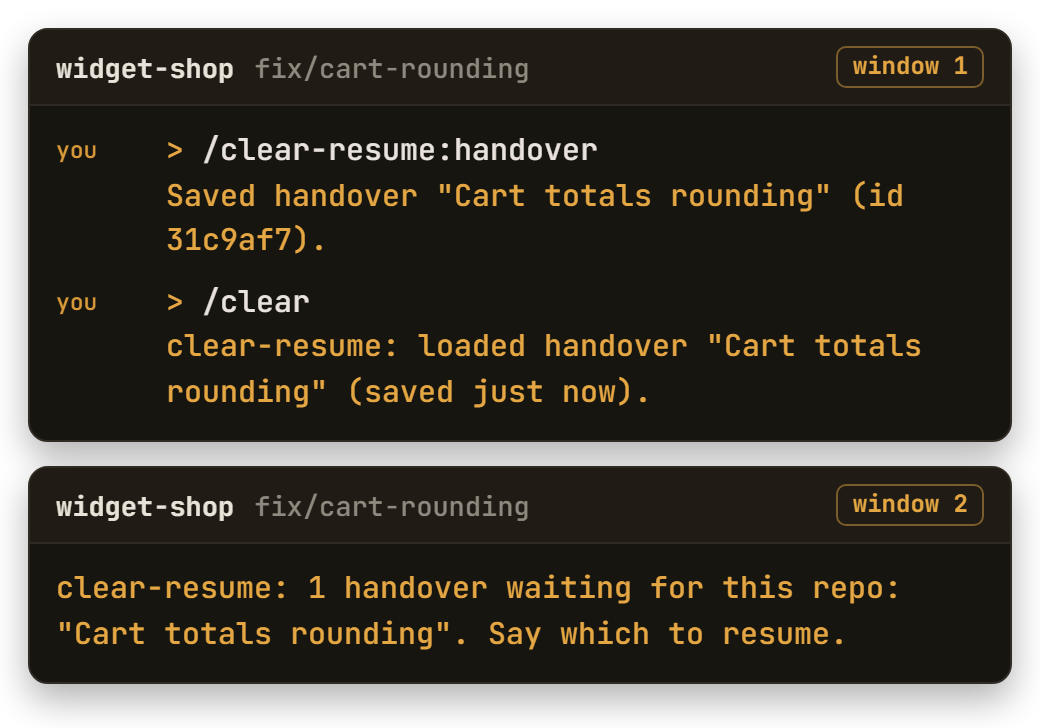
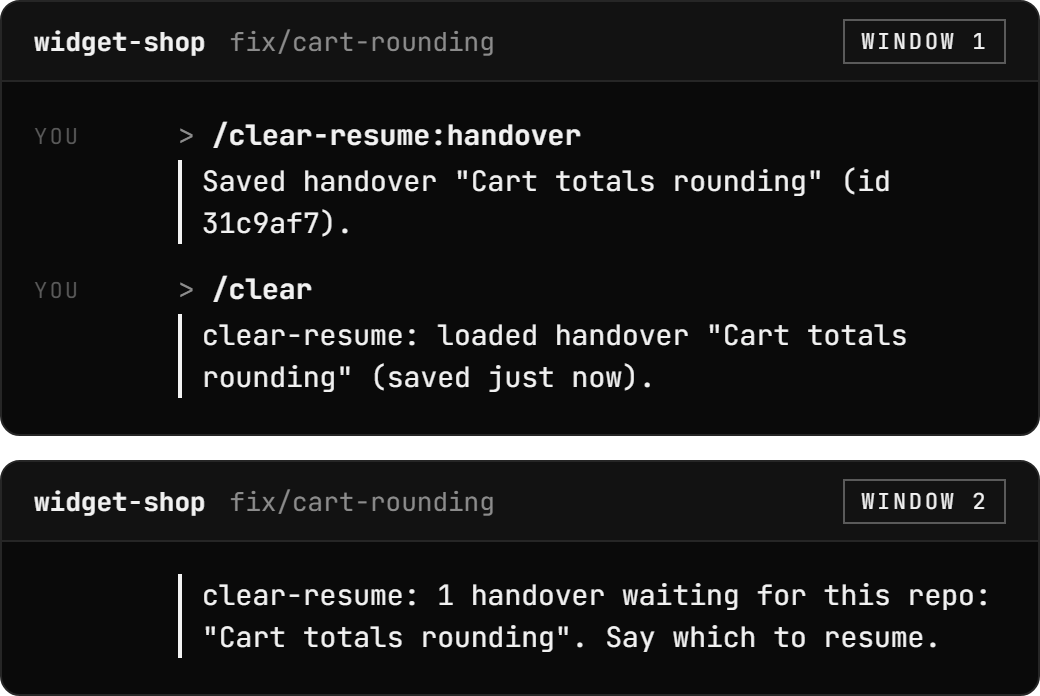
docs(media): mono README cards from a committed HTML source

diff --git a/docs/media/src/cards.html b/docs/media/src/cards.html
@@ -1,0 +1,209 @@
+<!doctype html>
+<!--
+  Source for the README cards in docs/media/. One card shows per #hash
+  (cards.html#banner, #problem, #nudge, #numbers, #copy, #windows).
+  Render all of them with: bash docs/media/src/render.sh
+  Palette and fonts are the site's (site/styles.css), so the README matches
+  https://m4cd4r4.github.io/clear-resume and the relay replay.
+-->
+<html lang="en">
+<head>
+<meta charset="utf-8">
+<title>clear-resume README cards</title>
+<style>
+@font-face { font-family: "JetBrains Mono"; src: url("../../../site/fonts/jetbrains-mono-400.woff2") format("woff2"); font-weight: 400; }
+@font-face { font-family: "JetBrains Mono"; src: url("../../../site/fonts/jetbrains-mono-700.woff2") format("woff2"); font-weight: 700; }
+@font-face { font-family: "Montserrat"; src: url("../../../site/fonts/montserrat-400.woff2") format("woff2"); font-weight: 400; }
+@font-face { font-family: "Montserrat"; src: url("../../../site/fonts/montserrat-600.woff2") format("woff2"); font-weight: 600; }
+@font-face { font-family: "Montserrat"; src: url("../../../site/fonts/montserrat-700.woff2") format("woff2"); font-weight: 700; }
+
+:root {
+  --bg: #0a0a0a;
+  --surface: #121212;
+  --surface-2: #181818;
+  --hairline: #262626;
+  --text: #f2f2f2;
+  --text-2: #8c8c8c;
+  --ghost: #5a5a5a;
+  --mono: "JetBrains Mono", ui-monospace, Consolas, monospace;
+  --sans: "Montserrat", system-ui, sans-serif;
+}
+* { box-sizing: border-box; }
+html, body { margin: 0; background: transparent; }
+body { color: var(--text); font: 400 15px/1.5 var(--mono); font-variant-ligatures: none; -webkit-font-smoothing: antialiased; }
+section { display: none; }
+section:target { display: block; }
+
+/* terminal window */
+.win { background: var(--bg); border: 1px solid var(--hairline); border-radius: 10px; overflow: hidden; }
+.win + .win { margin-top: 12px; }
+.bar { display: flex; align-items: center; gap: 12px; height: 40px; padding: 0 16px; border-bottom: 1px solid var(--hairline); background: var(--surface); font-size: 13px; }
+.bar .repo { font-weight: 700; }
+.bar .branch { color: var(--text-2); }
+.bar .ctx { margin-left: auto; display: flex; align-items: center; gap: 10px; color: var(--text-2); font-size: 11px; letter-spacing: .12em; text-transform: uppercase; }
+.meter { width: 120px; height: 4px; background: var(--hairline); }
+.meter i { display: block; height: 100%; background: var(--text); }
+.tag { margin-left: auto; padding: 2px 8px; border: 1px solid var(--ghost); color: var(--text); font-size: 11px; letter-spacing: .12em; text-transform: uppercase; }
+.body { padding: 16px 16px 18px; }
+.row { display: grid; grid-template-columns: 64px 1fr; column-gap: 8px; }
+.row + .row { margin-top: 2px; }
+.row.gap { margin-top: 12px; }
+.who { color: var(--ghost); font-size: 11px; letter-spacing: .1em; text-transform: uppercase; padding-top: 3px; }
+.p { color: var(--text-2); }
+.cmd { color: var(--text); font-weight: 700; }
+.tool { color: var(--text); }
+.arg { color: var(--text-2); }
+.say { color: var(--text); }
+/* the plugin's own voice: a hairline rule on the left, never a colour */
+.plug { border-left: 2px solid var(--text); padding-left: 10px; color: var(--text); }
+
+/* banner */
+#banner .frame { width: 1280px; height: 400px; display: flex; align-items: center; gap: 56px; padding: 0 72px; background: var(--bg); border: 1px solid var(--hairline); border-radius: 12px;
+  background-image: radial-gradient(circle at 78% 50%, #161616 0, transparent 60%); }
+#banner .copy { flex: 1; }
+#banner .kicker { font: 400 12px var(--mono); letter-spacing: .18em; text-transform: uppercase; color: var(--text-2); }
+#banner h1 { margin: 14px 0 0; font: 700 84px/1 var(--sans); letter-spacing: -0.035em; }
+#banner h1 span { color: var(--ghost); }
+#banner .line { margin-top: 22px; font: 600 22px/1.35 var(--sans); }
+#banner .sub { margin-top: 18px; font: 400 14px var(--mono); color: var(--text-2); }
+#banner .win { width: 470px; flex: none; }
+#banner .body { padding: 18px 18px 20px; font-size: 15px; }
+#banner .row + .row { margin-top: 14px; }
+#banner .note { color: var(--text-2); font-size: 13px; }
+
+/* problem */
+#problem .frame { width: 780px; display: grid; grid-template-columns: 1fr 180px; gap: 16px; align-items: start; padding: 16px; background: var(--bg); border: 1px solid var(--hairline); border-radius: 12px; }
+#problem .frame > .win { border-color: var(--hairline); }
+#problem .body { font-size: 12.5px; }
+#problem .side { border: 1px solid var(--hairline); border-left: 2px solid var(--text); background: var(--surface); padding: 14px 14px; font: 600 15px/1.35 var(--sans); }
+#problem .side b { font-weight: 700; }
+#problem .side small { display: block; margin-top: 8px; font: 400 11px/1.4 var(--mono); color: var(--text-2); }
+
+/* nudge, copy, windows */
+#nudge .frame, #copy .frame, #windows .frame { width: 520px; }
+#nudge .body, #windows .body { font-size: 14px; }
+
+/* numbers */
+#numbers .frame { width: 640px; background: var(--bg); border: 1px solid var(--hairline); border-radius: 10px; padding: 28px 28px 22px; }
+#numbers .label { font-size: 11px; letter-spacing: .14em; text-transform: uppercase; color: var(--text-2); }
+#numbers .fig { display: flex; align-items: baseline; gap: 12px; margin-top: 6px; }
+#numbers .fig b { font: 700 52px/1 var(--mono); letter-spacing: -0.03em; }
+#numbers .fig b.small { color: var(--text); }
+#numbers .fig span { font: 600 16px var(--sans); }
+#numbers .fig em { font-style: normal; color: var(--text-2); font: 400 14px var(--sans); }
+#numbers .track { height: 10px; margin-top: 12px; background: var(--hairline); }
+#numbers .track i { display: block; height: 100%; background: var(--text); }
+#numbers .gap { height: 26px; }
+#numbers .foot { margin-top: 22px; padding-top: 14px; border-top: 1px solid var(--hairline); font-size: 12px; color: var(--text-2); }
+
+/* copy (editor tab) */
+#copy .tabs { display: flex; height: 38px; background: var(--surface); border-bottom: 1px solid var(--hairline); font-size: 13px; }
+#copy .tabs span { display: flex; align-items: center; padding: 0 16px; border-right: 1px solid var(--hairline); background: var(--bg); box-shadow: inset 0 2px 0 var(--text); }
+#copy .crumb { padding: 8px 16px; font-size: 10.5px; white-space: nowrap; color: var(--text-2); border-bottom: 1px solid var(--hairline); }
+#copy .lines { padding: 10px 16px 14px 0; font-size: 13px; line-height: 1.55; }
+#copy .ln { display: grid; grid-template-columns: 44px 1fr; column-gap: 14px; }
+#copy .ln > i { font-style: normal; text-align: right; color: var(--ghost); }
+#copy .h { font-weight: 700; }
+#copy .m { color: var(--text-2); }
+</style>
+</head>
+<body>
+
+<section id="banner"><div class="frame">
+  <div class="copy">
+    <div class="kicker">handover · /clear · resume</div>
+    <h1><span>clear-</span>resume</h1>
+    <div class="line">Clear the chat. Keep the goal,<br>the next step and the decisions.</div>
+    <div class="sub">A free, open-source plugin for Claude Code</div>
+  </div>
+  <div class="win">
+    <div class="bar"><span class="repo">widget-shop</span><span class="branch">fix/cart-rounding</span><span class="ctx">context <span class="meter" style="width:72px"><i style="width:6%"></i></span></span></div>
+    <div class="body">
+      <div class="row"><span class="who">you</span><span><span class="p">&gt;</span> <span class="cmd">/clear-resume:handover</span><br><span class="note">└ Claude saves a short note</span></span></div>
+      <div class="row"><span class="who">you</span><span><span class="p">&gt;</span> <span class="cmd">/clear</span><br><span class="note">└ the fresh session loads the note</span></span></div>
+      <div class="row"><span class="who">you</span><span><span class="p">&gt;</span> <span class="cmd">go</span><br><span class="note">└ Claude carries on from it</span></span></div>
+    </div>
+  </div>
+</div></section>
+
+<section id="problem"><div class="frame">
+  <div class="win">
+    <div class="bar"><span class="repo">widget-shop</span><span class="branch">fix/cart-rounding</span><span class="ctx">context <span class="meter"><i style="width:94%"></i></span></span></div>
+    <div class="body">
+      <div class="row"><span class="who">you</span><span><span class="p">&gt;</span> start a widget-shop cart: items, quantities, prices</span></div>
+      <div class="row"><span class="who">Claude</span><span><span class="tool">Write</span> <span class="arg">src/items.js</span><br>Items, quantities and prices are in place.</span></div>
+      <div class="row"><span class="who">you</span><span><span class="p">&gt;</span> add a cart page that lists the line items and a total</span></div>
+      <div class="row"><span class="who">Claude</span><span><span class="tool">Write</span> <span class="arg">src/cart.js</span><br><span class="tool">Bash</span>&nbsp; <span class="arg">npm test -- cart</span><br>The cart page lists each line and a total.</span></div>
+      <div class="row"><span class="who">you</span><span><span class="p">&gt;</span> now print the same total on the receipt</span></div>
+      <div class="row"><span class="who">Claude</span><span><span class="tool">Edit</span>&nbsp; <span class="arg">src/receipt.js</span><br>The receipt now prints the cart total.</span></div>
+      <div class="row gap"><span class="who">you</span><span><span class="p">&gt;</span> the receipt total is a cent less than the cart total</span></div>
+      <div class="row gap"><span class="who">Claude</span><span><span class="tool">Read</span>&nbsp; <span class="arg">src/cart.js</span><br><span class="tool">Read</span>&nbsp; <span class="arg">src/receipt.js</span><br><span class="tool">Read</span>&nbsp; <span class="arg">test/cart.test.js</span><br><span class="tool">Bash</span>&nbsp; <span class="arg">npm test -- cart</span><br>Reproduced: 3 items at $19.99 total 59.97 in the cart but 59.96 on the receipt.</span></div>
+    </div>
+  </div>
+  <div class="side"><b>Context</b>: everything Claude is holding in mind for this chat.<small>The bar, top right, is almost full.</small></div>
+</div></section>
+
+<section id="nudge"><div class="frame"><div class="win">
+  <div class="bar"><span class="repo">widget-shop</span><span class="branch">fix/cart-rounding</span><span class="ctx">context <span class="meter"><i style="width:96%"></i></span></span></div>
+  <div class="body">
+    <div class="row"><span class="who">you</span><span><span class="p">&gt;</span> also email a copy of the receipt to the customer</span></div>
+    <div class="row"><span class="who">Claude</span><span><span class="tool">Edit</span> <span class="arg">src/receipt.js</span><br>The receipt email sends the rounded total.</span></div>
+    <div class="row gap"><span></span><span class="plug">clear-resume: context is about 182k tokens (nudge at 180k). Claude is asked to save a handover, then you can type /clear.</span></div>
+  </div>
+</div></div></section>
+
+<section id="numbers"><div class="frame">
+  <div class="label">A typical /clear frees</div>
+  <div class="fig"><b>102,088</b><span>tokens</span></div>
+  <div class="track"><i style="width:100%"></i></div>
+  <div class="gap"></div>
+  <div class="label">The handover that replaces it</div>
+  <div class="fig"><em>about</em><b class="small">780</b><span>tokens</span><em>(an estimate)</em></div>
+  <div class="track"><i style="width:0.76%;min-width:3px"></i></div>
+  <div class="foot">Measured on the author's own 104 /clears, 20 to 28 Sep 2026, medians.</div>
+</div></section>
+
+<section id="copy"><div class="frame"><div class="win">
+  <div class="tabs"><span>widget-shop-cart-totals-rounding-31c9af7.md</span></div>
+  <div class="crumb">~ › .clear-resume › loaded › widget-shop-cart-totals-rounding-31c9af7.md</div>
+  <div class="lines">
+    <div class="ln"><i>1</i><span class="h"># Cart totals rounding</span></div>
+    <div class="ln"><i>2</i><span></span></div>
+    <div class="ln"><i>3</i><span><span class="m">-</span> Repo: widget-shop</span></div>
+    <div class="ln"><i>4</i><span><span class="m">-</span> Branch: fix/cart-rounding</span></div>
+    <div class="ln"><i>5</i><span><span class="m">-</span> Saved: 2026-09-28 14:02 (UTC+00:00)</span></div>
+    <div class="ln"><i>6</i><span><span class="m">-</span> Loaded: 2026-09-28 14:03 (UTC+00:00)</span></div>
+    <div class="ln"><i>7</i><span></span></div>
+    <div class="ln"><i>8</i><span class="m">---</span></div>
+    <div class="ln"><i>9</i><span></span></div>
+    <div class="ln"><i>10</i><span class="h">## Goal</span></div>
+    <div class="ln"><i>11</i><span>Cart totals must round to the cent the way the payment provider does, so the checkout total and the receipt always match.</span></div>
+    <div class="ln"><i>12</i><span></span></div>
+    <div class="ln"><i>13</i><span class="h">## Next action</span></div>
+    <div class="ln"><i>14</i><span>Run <span class="m">`</span>npm test -- cart<span class="m">`</span> and fix <span class="m">`</span>src/cart.js:2<span class="m">`</span> so <span class="m">`</span>cartTotal<span class="m">`</span> rounds once at the end, half-up, to 2 decimal places.</span></div>
+    <div class="ln"><i>15</i><span></span></div>
+    <div class="ln"><i>16</i><span class="h">## Decisions already made</span></div>
+    <div class="ln"><i>17</i><span><span class="m">-</span> Round once, at the total, never per line: the payment provider does the same.</span></div>
+  </div>
+</div></div></section>
+
+<section id="windows"><div class="frame">
+  <div class="win">
+    <div class="bar"><span class="repo">widget-shop</span><span class="branch">fix/cart-rounding</span><span class="tag">window 1</span></div>
+    <div class="body">
+      <div class="row"><span class="who">you</span><span><span class="p">&gt;</span> <span class="cmd">/clear-resume:handover</span></span></div>
+      <div class="row"><span></span><span class="plug">Saved handover "Cart totals rounding" (id 31c9af7).</span></div>
+      <div class="row gap"><span class="who">you</span><span><span class="p">&gt;</span> <span class="cmd">/clear</span></span></div>
+      <div class="row"><span></span><span class="plug">clear-resume: loaded handover "Cart totals rounding" (saved just now).</span></div>
+    </div>
+  </div>
+  <div class="win">
+    <div class="bar"><span class="repo">widget-shop</span><span class="branch">fix/cart-rounding</span><span class="tag">window 2</span></div>
+    <div class="body">
+      <div class="row"><span></span><span class="plug">clear-resume: 1 handover waiting for this repo: "Cart totals rounding". Say which to resume.</span></div>
+    </div>
+  </div>
+</div></section>
+
+</body>
+</html>
